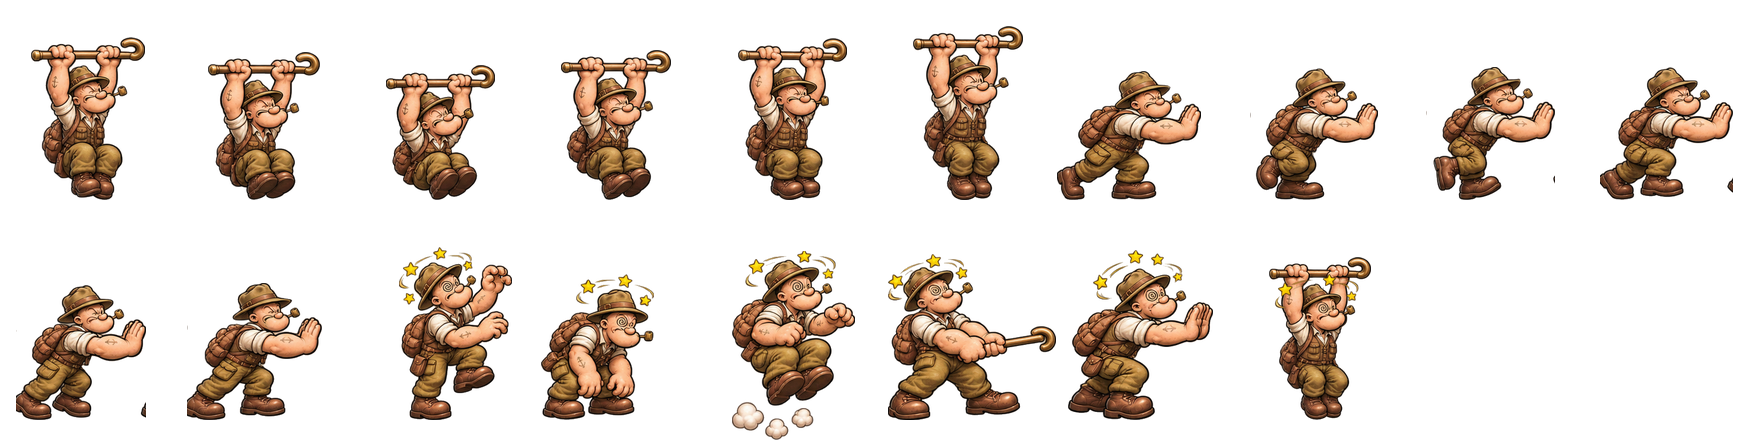
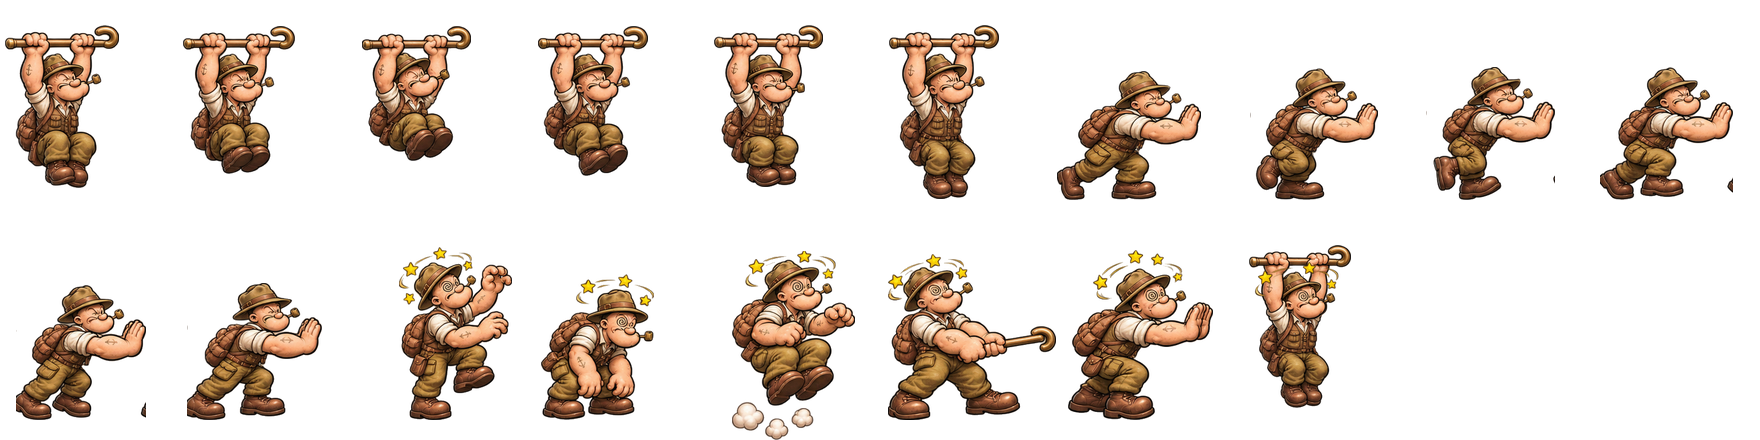
v0.36: asılmada baston sabit, gövde sallanır
Claude-Session: https://claude.ai/code/session_015fAnPKUucX6WRC71BPvNkG

Changed region(s): [[0.0, 0.0591, 0.5938, 0.4727], [0.6875, 0.5614, 0.7812, 0.9455]]

diff --git a/config.js b/config.js
@@ -1,6 +1,6 @@
 // Popeye Tales (Atari) - ayarlar
 const CONFIG = {
-  surum: "v0.35",
+  surum: "v0.36",
   tile: 32,
   bayrakBoy: 57.6,      // kontrol noktası bayrağı (v0.33: %10 küçük, 64 → 57.6)
   dusmanOlcek: 0.9,     // v0.32: tüm düşmanlar %10 küçük (görsel + gövde)
@@ -32,7 +32,7 @@ const CONFIG = {
     boy: 52.8,           // v0.32: %10 büyük (48 → 52.8); animOlcek oranları bunun üstüne çarpılır, gövde aynı             // karakterin ekrandaki boyu (dünya px, ayakta)
     kare: { w: 176, h: 141, ayakY: 125, ayakBoy: 117 },
     kare2: { w: 176, h: 220, ayakY: 200 },   // assets/oyuncu2.png (asılma, itme, darbe kareleri) — aynı ölçek  // assets/oyuncu.png hücresi: ayak çizgisi, ayakta boy (px)
-    kancaY: 48,          // asılma karesinde bastonun ayaklardan yüksekliği (px); kanca bu hizada taşa değince asılır
+    kancaY: 52,          // asılma karesinde bastonun ayaklardan yüksekliği (px); kanca bu hizada taşa değince asılır
     ayakGomme: 2,        // ayaklar zemin çizgisinin bu kadar altına çizilir (px) — çimene basmış görünür
     govdeG: 18,          // çarpışma gövdesi genişliği (px)
     govdeY: 42,          // çarpışma gövdesi yüksekliği (px) — ayaktayken 1 karelik (32 px) aralığa sığmaz

diff --git a/araclar/oyuncuEk.py b/araclar/oyuncuEk.py
@@ -29,6 +29,14 @@ ek = yukle('oyuncu_asiliHasar.png'); ek = kes(ek, 0, ek.shape[0], 0, ek.shape[1]
 asiliBoy = kareler[0][0].shape[0]
 kareler.append((ek, 0, asiliBoy / ek.shape[0]))
 out = Image.new('RGBA', (W * 10, H * 2), (0, 0, 0, 0))
+# v0.36: asılma kareleri (0–5, 17) bastona göre hizalanır → baston her karede aynı yerde sabit, gövde sallanır.
+# Hedef: en uzun asılma karesinin ayağı ayak çizgisinde, baston sağ ucu x=KANCA_X.
+def baston(arr):   # bastonun (figürün en üst 14 satırı) üstü ve sağ ucu
+    b = arr[:, :, 3] > 150; t = np.where(b.any(1))[0][0]
+    return t, np.where(b[t:t + 14].any(0))[0][-1]
+ASILI = [0, 1, 2, 3, 4, 5, 17]
+ASILI_BOY = max(round(kareler[i][0].shape[0] * OLCEK * (kareler[i][2] if len(kareler[i]) > 2 else 1)) for i in ASILI[:6])
+KANCA_X = 88 + 30
 for n, k in enumerate(kareler):
     arr, alt = k[0], k[1]
     o = OLCEK * (k[2] if len(k) > 2 else 1)
@@ -37,6 +45,9 @@ for n, k in enumerate(kareler):
     hx = np.where(b[t:t + 30].any(0))[0]; hc = (hx[0] + hx[-1]) / 2   # şapka/baş üstü ortası
     f = f.resize((max(1, round(f.width * o)), max(1, round(f.height * o))), Image.LANCZOS)
     x = int(round(88 - hc * o)); y = AY + alt - f.height
+    if n in ASILI:
+        t, xr = baston(arr)
+        x = int(round(KANCA_X - xr * o)); y = int(round(AY - ASILI_BOY - t * o))
     x = max(0, min(W - f.width, x)); y = max(0, y)
     cell = Image.new('RGBA', (W, H), (0, 0, 0, 0)); cell.alpha_composite(f, (x, y))
     out.paste(cell, ((n % 10) * W, (n // 10) * H))

diff --git a/OYUN.md b/OYUN.md
@@ -1,6 +1,6 @@
 # Popeye Tales (Atari) — OYUN.md
 
-Sürüm: v0.35 (`config.js` → `surum`)
+Sürüm: v0.36 (`config.js` → `surum`)
 Motor: Phaser 3.80.1 (CDN), Arcade Physics.
 Görseller (v0.05, yeni set): zemin ve arka plan tek bir karo setinde (`assets/tileset.png`, 64 px kaynak, oyunda 32 px); objeler `assets/*.png` (platform parçaları, sarmaşık/ip/merdiven/zincir, kasa, taş blok, kırmızı takoz, dikenler, sandık, kapı, bayrak). Ana karakter (v0.14): `assets/oyuncu.png` sprite sheet (aşağıda). Düşmanlar (v0.24) ve toplanabilirler (v0.29): kullanıcı görseli. Arayüz hâlâ yer tutucu (renkli şekiller, `boot.js`).
 
@@ -46,7 +46,7 @@ Not: görseller dosyadan yüklendiği için oyun `file://` ile değil bir web ad
 
 ## Yeni hareketler (v0.33)
 - Ek kareler `assets/oyuncu2.png` (`python3 araclar/oyuncuEk.py`; kaynak `assets/kaynak/oyuncu_ek.png` + `oyuncu_asiliHasar.png`): 10 sütun, hücre 176×220, ayak çizgisi y=200, ana sayfayla aynı ölçek (şapka genişliği eşitlendi). `CONFIG.oyuncu.kare2`. v0.34: oyunda hepsi %30 küçük çizilir (`animOlcek` 0.7).
-- **Bastonla duvara asılma** (`asili`, kare 0–5): havada aşağı düşerken duvara doğru basılıysa ve **baston kancası** (ayakların `CONFIG.oyuncu.kancaY` 48 px üstü, v0.35) önündeki taşa değiyorsa takılır; sadece kafa/bacak değiyorsa düşmeye devam eder ve kancanın taşa ilk değdiği yerde durur (yerçekimi kapalı). Zıpla → duvardan uzağa sıçrar (`CONFIG.fizik.asiliZipla` 160, tam zıplama, 0.15 sn yatay kilit); ters yön, ↓ veya duvar biterse bırakır (0.25 sn tekrar takılmaz).
+- **Bastonla duvara asılma** (`asili`, kare 0–5; v0.36: kareler bastona göre hizalı → baston takıldığı yerde sabit, sadece gövde sallanır): havada aşağı düşerken duvara doğru basılıysa ve **baston kancası** (ayakların `CONFIG.oyuncu.kancaY` 52 px üstü, v0.35) önündeki taşa değiyorsa takılır; sadece kafa/bacak değiyorsa düşmeye devam eder ve kancanın taşa ilk değdiği yerde durur (yerçekimi kapalı). Zıpla → duvardan uzağa sıçrar (`CONFIG.fizik.asiliZipla` 160, tam zıplama, 0.15 sn yatay kilit); ters yön, ↓ veya duvar biterse bırakır (0.25 sn tekrar takılmaz).
 - **İtme** (`it`, kare 6–11): yerde, önünde aynı zeminde bitişik sandık varsa yürüyerek yavaşça iter (`CONFIG.fizik.itme` 90 px/sn). Çekilebilen her şey itilebilir.
 - **Duruma göre darbe karesi**: tırmanırken 12, eğikken 13, havada 14, çekerken 15, iterken 16, asılıyken 17. Yerde ayaktayken eski `sersem` (15–17 ana sayfa).
 - **Duvara basarak zıplama düzeltmesi**: duvara doğru basarken yatay hız verilmez (gövde duvara sürtünüp zıplamayı engellemiyordu).
